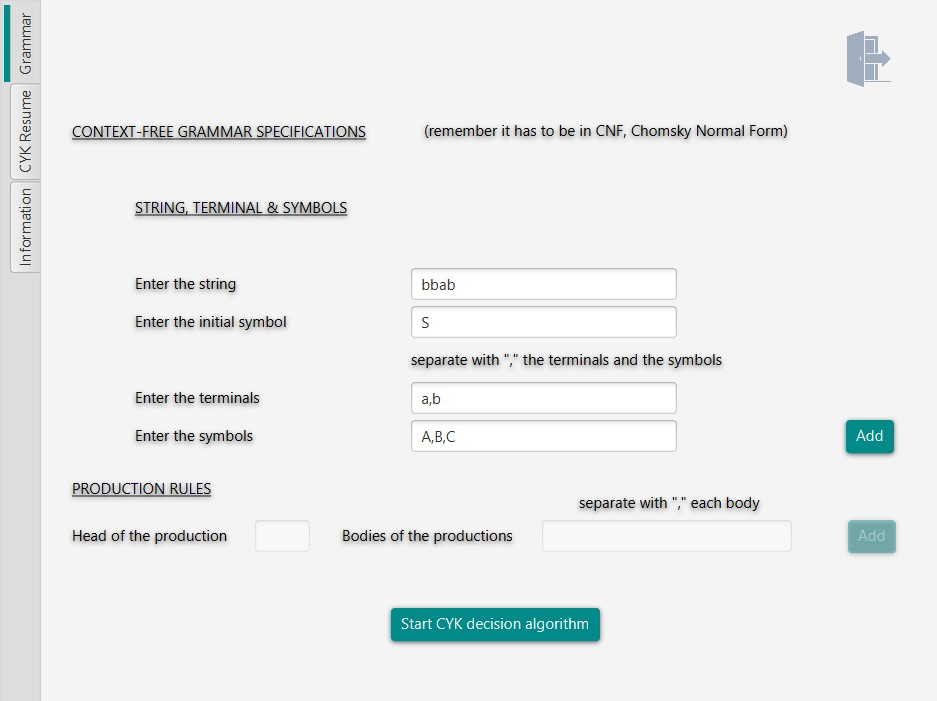
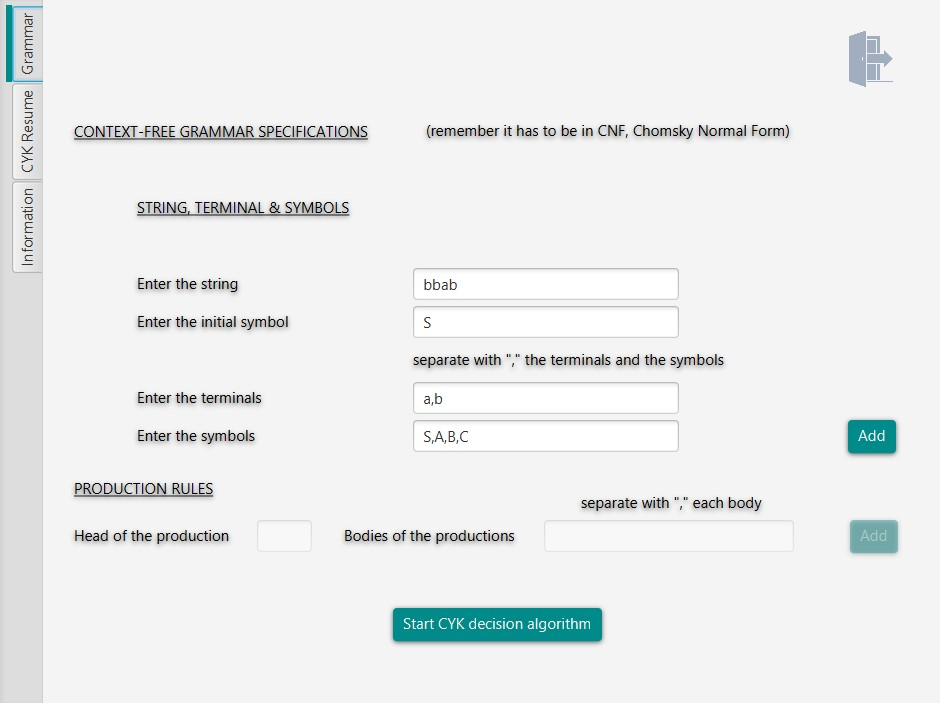
CYK implemented

diff --git a/src/model/CYK.java b/src/model/CYK.java
@@ -1,5 +1,8 @@
 //__________________________________________________________________________________________________________________________________v
 package model;
+
+import java.util.HashSet;
+
 //__________________________________________________________________________________________________________________________________
 /**
  * This class manages the necessary attributes and methods to run CYK algorithm over a given context-free grammar.
@@ -9,15 +12,16 @@ package model;
  */
 public class CYK {
 	private String string;	
-	private String[][] CYKTable;
+	private HashSet<String>[][] CYKTable;
 //__________________________________________________________________________________________________________________________________	
 	/**
 	 * <b>CYK constructor</b>
 	 * @param string the string input to validate
 	 */
+	@SuppressWarnings("unchecked")
 	public CYK(String string) {
 		this.string = string;
-		CYKTable = new String[string.length()][string.length()];
+		CYKTable = new HashSet[string.length()][string.length()];
 	}
 //__________________________________________________________________________________________________________________________________
 	/**
@@ -34,7 +38,8 @@ public class CYK {
 	 * <b>Pre:</b> the cyk exists
 	 * @return the cyk table
 	 */
-	public String[][] getCYKTable(){
+	@SuppressWarnings("rawtypes")
+	public HashSet[][] getCYKTable(){
 		return CYKTable;
 	}	
 //__________________________________________________________________________________________________________________________________				
@@ -46,23 +51,96 @@ public class CYK {
 	 * @return a boolean value
 	 */
 	public boolean CYKAlgorithm(String string, Grammar grammar) {
+		boolean confirmation = false;
 		if(string.equalsIgnoreCase(Grammar.LAMBDA)) {  
 			//if the input string is "lambda" the only production it needs to be checked it's 'S'
 			return grammar.getProductionRules().get(grammar.getInitialSymbol()).contains(string);
-		}		
-		boolean confirmation = false;
-		/**String[] terminals = string.split("");
+		}
 		int n = string.length();
-		int j = 1;
-		
-		for(int i=1; i < n; i++) {		
-			for(int s=0; s<grammar.getSymbols().size(); s++) {
-				if(grammar.isInGrammar(grammar.getSymbols().get(s),terminals[i-1])) {
-					CYKTable[i][0] = grammar.getSymbols().get(s);
+		String[] terminals = string.split("");
+		for(int i=0; i < n; i++) {
+			CYKTable[i][0] = new HashSet<>();
+			isInGrammar(grammar, terminals[i], i, 0);		
+		}
+		for(int j=1;j<n;j++) {
+			for(int i=0;i<n-j;i++) {
+				CYKTable[i][j] = new HashSet<>();
+				for (int k = 0; k <= j - 1; k++) {
+					 HashSet<String> set1 = CYKTable[i][k]; 
+	                 HashSet<String> set2 = CYKTable[i + k + 1][j - k - 1];
+	                 String[] prods = cartesianProduct(set1, set2);
+	                 for (String body : prods) { // Xij := A in V / A --> BC is a production of G
+	                        isInGrammar(grammar, body, i, j);
+	                 }
+                }
+			}
+		}
+		if(CYKTable[0][n - 1].contains(grammar.getInitialSymbol())) {
+			confirmation = true;
+		}
+		return confirmation;
+	}
+//__________________________________________________________________________________________________________________________________
+	/**
+	 * This method allows to check if a single terminal is generated by some production rule
+	 * <b>Pre:</b> The grammar exists
+	 * <b>Pos:</b> The validation confirms wether the terminal is produced by this grammar or not
+	 * @param head the head of the production rule
+	 * @param terminal the terminal of the string
+	 * @return a boolean value 
+	 */
+	public void isInGrammar(Grammar grammar, String w, int i, int j) {			
+		for(String head : grammar.getSymbols()) {
+			for(String body : grammar.getProductionRules().get(head)) {
+				if(body.equals(w)) {
+					CYKTable[i][j].add(head);
 				}
 			}
-		}					*/		
-		return confirmation;
+		}					
+	}
+	
+//__________________________________________________________________________________________________________________________________
+	/**
+	 * This method allows to make the cartesian product between two sets to check if the union of this bodies elements if in the grammar
+	 * @param set1 the first set 
+	 * @param set2 the other set
+	 * @return an String array with the union of the elements
+	 */
+	private String[] cartesianProduct(HashSet<String> set1, HashSet<String> set2) {
+        String[] cartesianProductResult = new String[set1.size() * set2.size()];
+        int i = 0;
+        for (String element1 : set1) {
+            for (String element2 : set2) {
+                cartesianProductResult[i] = element1 + element2;
+                i++;
+            }
+        }
+        return cartesianProductResult;
+}
+//__________________________________________________________________________________________________________________________________
+	/**
+	 * This method prints the resultant table after running the cyk algorithm
+	 * @return the cyk table
+	 */
+	public String printTable() {
+		String table = "";		
+		table += "--------------------------------------------------------------------------------------------------------------------------" + "\n";
+		for(int i=0;i<CYKTable.length;i++) {		
+			table += "" + string.charAt(i) + "        ";
+			for(int j=0;j<CYKTable[i].length;j++) {
+				if(CYKTable[i][j]!=null) {
+					table += "" + CYKTable[i][j] + "                    ";					
+				}
+				else {
+					table += "--";
+				}
+				if(j+1==string.length()) {
+					table += "\n";
+				}
+			}
+		}		
+		table += "--------------------------------------------------------------------------------------------------------------------------";
+		return table;
 	}
 //__________________________________________________________________________________________________________________________________
 }

diff --git a/src/gui/GrammarProgramController.java b/src/gui/GrammarProgramController.java
@@ -1,16 +1,12 @@
 //__________________________________________________________________________________________________________________________________
 package gui;
 import javafx.fxml.FXML;
-import javafx.beans.property.ReadOnlyStringWrapper;
-import javafx.collections.FXCollections;
-import javafx.collections.ObservableList;
 import javafx.event.ActionEvent;
 import javafx.scene.input.MouseEvent;
 import javafx.scene.control.Alert;
 import javafx.scene.control.Button;
 import javafx.scene.control.Label;
-import javafx.scene.control.TableColumn;
-import javafx.scene.control.TableView;
+import javafx.scene.control.TextArea;
 import javafx.scene.control.TextField;
 import javafx.scene.control.Alert.AlertType;
 import javafx.scene.image.ImageView;
@@ -57,7 +53,7 @@ public class GrammarProgramController {
 	private Label belongsToLanguage;
 	
     @FXML
-    private TableView<String> resultantTable;
+    private TextArea resultantTable;
 	
 	@FXML
 	private Alert alert;
@@ -73,6 +69,7 @@ public class GrammarProgramController {
 	private void initialize() {    	
 		//production part is not enable until the initial information is first entered by the user
 		changeProductionRulesInformationToState(true);
+		resultantTable.setEditable(false);
 		alert = new Alert(AlertType.NONE);    
 	}
 //__________________________________________________________________________________________________________________________________
@@ -114,23 +111,6 @@ public class GrammarProgramController {
 		headOfProduction.clear();
 		BodyOfProduction.clear();
 		changeProductionRulesInformationToState(true);		
-	}
-	/**
-	 * This method adds a new column to the resultant table of the cyk algorithm
-	 * @param header the name for this column
-	 */
-	private void addColumn(String header) {
-		TableColumn<String, String> lambda = new TableColumn<>(header);
-		lambda.setCellValueFactory(param -> new ReadOnlyStringWrapper(param.getValue()));				
-		resultantTable.getColumns().add(lambda);	
-	}
-//__________________________________________________________________________________________________________________________________
-	/**
-	 * This method set the content of the resultant table of the cyk algorithm
-	 * @param items the items to be inserted
-	 */
-	private void setContent(ObservableList<String> items) {
-		resultantTable.setItems(items);
 	}
 //__________________________________________________________________________________________________________________________________
 	@FXML
@@ -229,23 +209,28 @@ public class GrammarProgramController {
 	 * @param event the event triggered by the user
 	 */
 	private void startCYKAlgorithm(ActionEvent event) {
-		if(!stringInput.getText().isEmpty() && grammar != null && !grammar.getProductionRules().isEmpty()) {
-			cyk = new CYK(stringInput.getText());
-			boolean confirmation = cyk.CYKAlgorithm(stringInput.getText(), grammar);
-			resultInput.setText(stringInput.getText());
-			belongsToLanguage.setText("" + confirmation);
-			if(stringInput.getText().equalsIgnoreCase(Grammar.LAMBDA) && confirmation) {
-				addColumn(cyk.getStringInput());
-				setContent(FXCollections.observableArrayList(grammar.getInitialSymbol()));								
-	    	}
+		try {
+			if(!stringInput.getText().isEmpty() && grammar != null && !grammar.getProductionRules().isEmpty()) {
+				cyk = new CYK(stringInput.getText());
+				boolean confirmation = cyk.CYKAlgorithm(stringInput.getText(), grammar);
+				resultInput.setText(stringInput.getText());
+				belongsToLanguage.setText("" + confirmation);
+				if(stringInput.getText().equalsIgnoreCase(Grammar.LAMBDA) && confirmation) {
+					resultantTable.setText("---------------" + "\n" + "lambda" + "\n" + "---------------" + "\n" +
+										"{" + grammar.getInitialSymbol() + "}" + "\n" + "---------------");
+		    	}
+				else {
+					resultantTable.setText(cyk.printTable());								
+				}			
+				showCorrect("CYK algorithm succcessfully executed" + "\n" + "Check the results on the resume tab");
+				resetForm();	    	
+			}
 			else {
-				
-			}			
-			showCorrect("CYK algorithm succcessfully executed" + "\n" + "Check the results on the resume tab");
-			resetForm();	    	
+				showWarning("Hold on! you cannot run the CYK unless you've created" + "\n" + "a proper grammar with production rules");
+			}
 		}
-		else {
-			showWarning("Hold on! you cannot run the CYK unless you've created" + "\n" + "a proper grammar with production rules");
+		catch(NullPointerException npe) {
+			showError("You're missing a production!!" + "\n" + "check if every symbol has at least one production");
 		}
 	}
 //__________________________________________________________________________________________________________________________________

diff --git a/src/model/Grammar.java b/src/model/Grammar.java
@@ -110,25 +110,5 @@ public class Grammar {
 		}
 		productionRules.put(head, totalBodies);				
 	}
-//__________________________________________________________________________________________________________________________________
-	/**
-	 * This method allows to check if a single terminal is generated by some production rule
-	 * <b>Pre:</b> The grammar exists
-	 * <b>Pos:</b> The validation confirms wether the terminal is produced by this grammar or not
-	 * @param head the head of the production rule
-	 * @param terminal the terminal of the string
-	 * @return a boolean value 
-	 */
-	public boolean isInGrammar(String head, String terminal) {
-		boolean confirmation = false;
-		for(int i=0; i<productionRules.size();i++) {
-			for(int j = 0; j<productionRules.get(head).size(); j++) {
-				if(productionRules.get(head).get(j).equals(terminal)) {
-					confirmation = true;
-				}
-			}				
-		}
-		return confirmation;
-	}
 //__________________________________________________________________________________________________________________________________	
 }

diff --git a/README.md b/README.md
@@ -46,7 +46,7 @@ ________________________________________________________________________________
 
    	The set of terminals (this specifies which elements made up part of the terminals set for the grammar, separate each terminal by 	"," the program will do the rest. Remember "lambda" can be a terminal). 
 
-   	The set of symbols (this specified which elements made up part of the symbols set for the grammar, separate each symbol by "," 	the program will do the rest)
+   	The set of symbols (this specified which elements made up part of the symbols set for the grammar, separate each symbol by "," 	the program will do the rest) Remember 'S' is also part of the symbols set.
 
    If everything is right you can click on the button "add" to start adding the production rules. Once added you cannot overwrite the information you entered, be careful!
 
